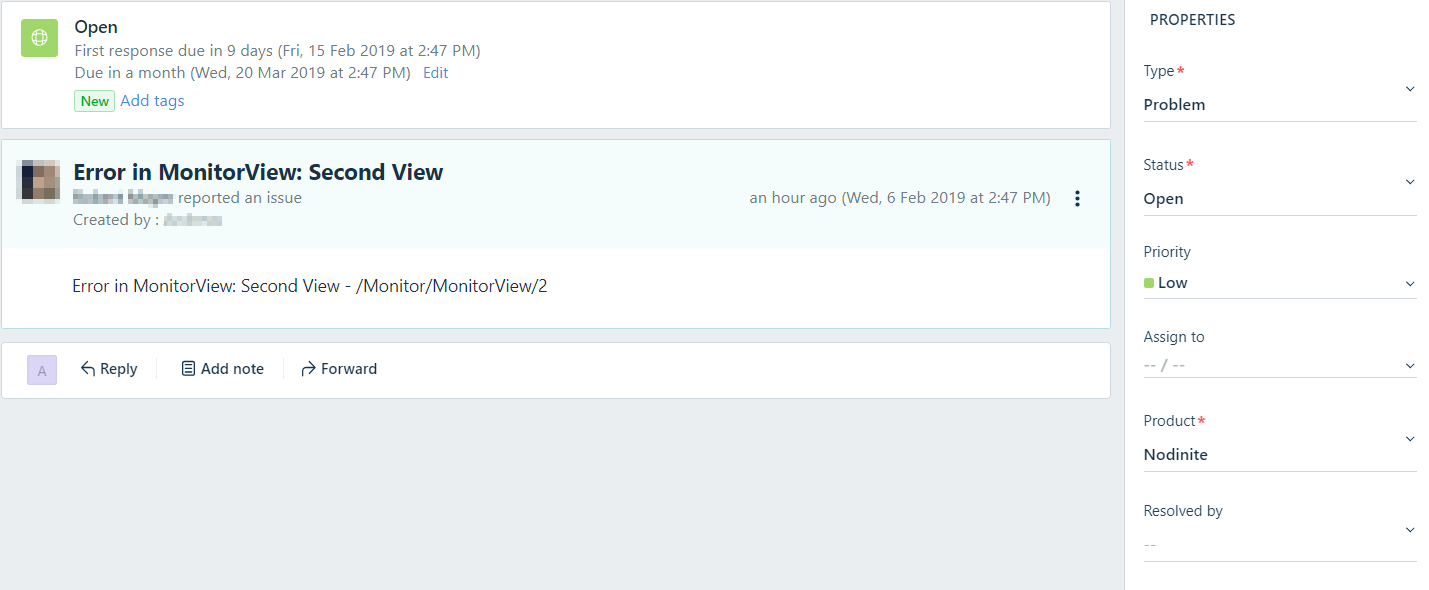
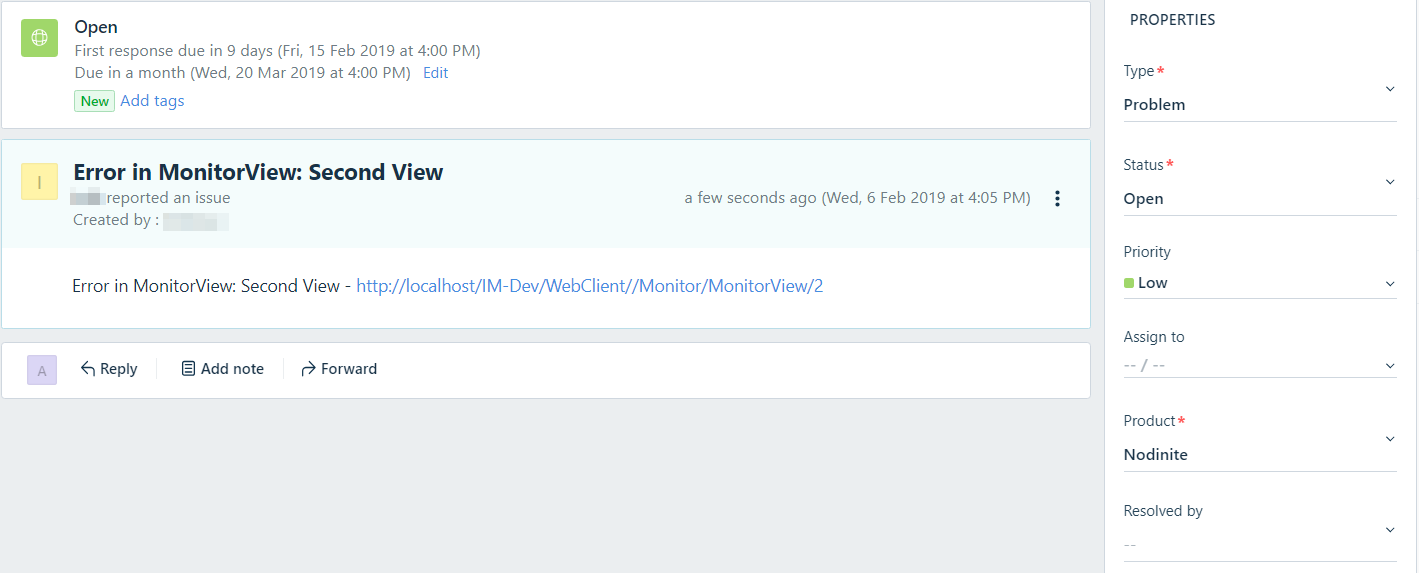
Updated readme

diff --git a/README.md b/README.md
@@ -12,7 +12,7 @@ This repository contains a simple Logic App template to get you started, which r
 For this to work you need to have:
 
 1. A running instance of [Nodinite](https://nodinite.com)
-2. The HTTP Webhook plugin for Alarms
+2. The HTTP Webhook plugin for Alarms (For this template to work, __**do not enable**__ the **Compress Body** flag in the plugin configuration)
 3. A working instance of [FreshDesk](https://freshdesk.com)
 4. Your FreshDesk API key
 
@@ -30,18 +30,18 @@ The Logic app will be configured to retrieve data from Nodinite (the JSON schema
 
 Some fields are pre-defined:
 
-* Description
-* Priority (SLA)
-* Status 
-* Subject
-* Type
+* **Subject** - Predefined value: "Error in MonitorView: {Name of the Monitor View}"
+* **Description** - Predefined value contains the name and a link to the Monitor View in your [Nodinite](https://nodinite.com) installation.
+* **Priority (SLA)** - Predefined value: Low
+* **Status** - Predefined value: Open
+* **Type** - Predefined value: Problem
 
 Depending on your FreshDesk instance, other fields might need to be configured, e.g. **Product**.
 
 ## How do I test this
 
 1. Visit the WebClient of your [Nodinite](https://nodinite.com) installation.
-2. Go to Administration, Settings, Alarm Plugins and choose the **HTTP Webhook* plugin.
+2. Go to Administration, Settings, Alarm Plugins and choose the **HTTP Webhook** plugin.
 3. Choose the "Configuration" tab and fill in the URL of your Logic App in the **Test URL** field.
 4. Click the **Save** button.
 It should basically look like the screenshot below.
